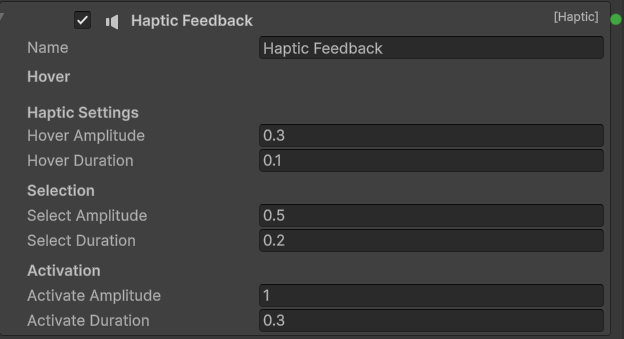
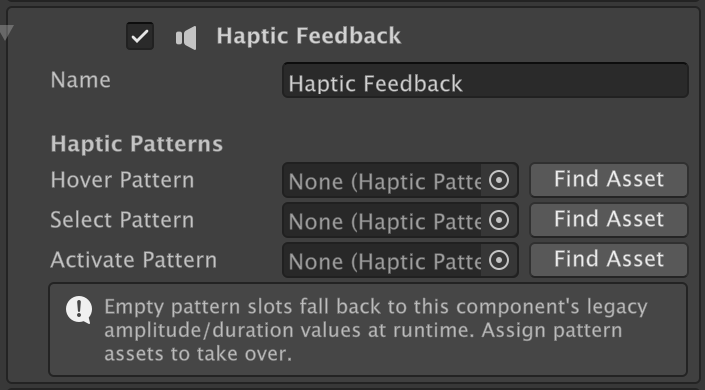
Documentation Update

diff --git a/Documentation~/Core/InteractionZones.md b/Documentation~/Core/InteractionZones.md
@@ -1,0 +1,110 @@
+# Interaction Zones
+
+A Scene view guide that shows where the player can comfortably reach, so you can place interactables without putting on the headset.
+
+> **Menu path:** Component > Shababeek > Interactions > Debug > VR Interaction Zone Visualizer
+> **Lives on:** the Camera Rig (the Camera Rig prefab already has one)
+
+![Room-scale zones in the Scene view](../Images/Core/interaction-zones-room-scale.png)
+
+The zones are drawn only in the editor. They do nothing at runtime and are not included in what the player sees.
+
+---
+
+## Reading the zones
+
+| Colour | Zone | Meaning |
+|---|---|---|
+| Green | **Optimal** | Comfortable reach. Put the things the player uses most here. |
+| Yellow | **Extended Reach** | Reachable with a stretched arm. Fine for occasional use. |
+| Orange | **Maximum Reach** | Reachable only by leaning. Avoid for anything important. |
+| Red | **Dead Zone** | Too close to the head to use comfortably. |
+| Blue | **Play Area** | Where the player can walk (Room Scale only). |
+
+The filled bands on the floor are the footprint of each zone. With **Height Ranges** on, each zone also shows the heights it covers, and a gauge beside the player marks the reachable range and the optimal range in metres above the floor. The green volume is filled so it stands out as the place to put things.
+
+Everything is drawn relative to the rig, so the zones turn with it. Parts hidden behind scene geometry are drawn faintly.
+
+---
+
+## Choosing a mode
+
+Pick **Room Scale** or **Seated** with the two buttons at the top of the component.
+
+- **Room Scale**: the player walks inside the play area. Zones are distances past the edge of the play area.
+- **Seated**: the player stays in one spot. Zones are distances in front of the head, inside an arc.
+
+![Seated zones in the Scene view](../Images/Core/interaction-zones-seated.png)
+
+Each mode keeps its own values. Switching mode never changes a value; it only changes which set is shown and drawn. **Reset … Values** restores the defaults of the mode you are looking at and leaves the other mode alone.
+
+---
+
+## Inspector
+
+![Interaction Zone Visualizer Inspector](../Images/Core/interaction-zones-inspector.png)
+
+### Player
+
+| Field | What it does |
+|---|---|
+| **Player Radius** | Radius of the body drawn at the rig. |
+| **Dead Zone Radius** | Radius around the head that is too close to use. |
+| **Eye Height** | Read only. Taken from **Camera Height** on the Camera Rig. |
+
+### Room Scale
+
+| Field | What it does |
+|---|---|
+| **Width**, **Depth** | Size of the walkable play area. |
+| **Optimal** | How far past the edge is comfortable to reach. |
+| **Extended** | How far past the edge a stretched arm reaches. |
+| **Maximum** | The furthest the player can reach at all. |
+
+### Seated
+
+| Field | What it does |
+|---|---|
+| **Optimal** | Closest and furthest comfortable distance in front of the head. |
+| **Extended** | Distance a stretched arm reaches. |
+| **Maximum** | Distance the player can reach by leaning. |
+| **Arc Half Angle** | How far to each side the zones extend. 180 draws a full circle. |
+
+### Heights
+
+Heights are a percentage of eye height, measured from the head. Negative values are below the head. The line under each slider shows the same range in metres above the floor.
+
+| Field | What it does |
+|---|---|
+| **Reachable** | Lowest and highest height the player can reach. Used by the Extended and Maximum zones. |
+| **Optimal** | Lowest and highest comfortable height. Always stays inside the reachable range. |
+
+Distances are kept in order for you: Extended is never smaller than Optimal, and Maximum is never smaller than Extended.
+
+---
+
+## Showing and hiding parts
+
+The **Scene View** list at the bottom of the component turns each part on or off: the three zones, the play area, the dead zone, the player, the height ranges and the labels. The same switches appear in an **Interaction Zones** panel in the Scene view while the rig, or anything under it, is selected.
+
+These switches are your own editor preference. They are not saved in the scene or the prefab, so hiding a zone does not change the file and does not affect anyone else on the team.
+
+**Show When Not Selected** keeps a faint footprint visible while you work on other objects. Turn it off to see the zones only while the rig is selected.
+
+To hide everything at once, use the Scene view **Gizmos** menu and untick **VR Interaction Zone Visualizer**. If the zones never appear, check that it is ticked there.
+
+---
+
+## Upgrading from 1.1.0
+
+Rigs saved with the previous version convert themselves the first time they load:
+
+- Distances and the play area move into the mode they belonged to.
+- The old layout had one set of heights shared by both modes. They go to the mode that was selected when the rig was saved; the other mode starts from its defaults.
+- The per-zone **Show** tick boxes are no longer stored on the component. Use the Scene View switches instead.
+
+Scripts that read `VRInteractionZoneVisualizer` need updating: the flat properties (`PlayAreaWidth`, `SeatedOptimalMin`, `ShowOptimalZone` and so on) are replaced by `RoomScale` and `Seated` settings objects, `ApplyVRModePreset()` by `ResetToDefaults(mode)`, and `GetPlayerHeight()` by `EyeHeight`.
+
+---
+
+Back to the [documentation index](../README.md).

diff --git a/Documentation~/InteractionsDocumentationSummary.md b/Documentation~/InteractionsDocumentationSummary.md
@@ -44,7 +44,7 @@ Back to the [documentation index](README.md).
 | Component | Note |
 |---|---|
 | HandFingerRig and Auto-Fit Fingers To Surface | Described only in the [design notes](ProceduralGrabPosing-Design.md). Needs a section in the PoseConstrainer manual. |
-| InteractionZoneVisualizer | No manual. |
+| InteractionZoneVisualizer | [Interaction zones](Core/InteractionZones.md). |
 | EyelidEffect | No manual. |
 | KinematicHandFollower | One line in the source; mention in the Interaction Core manual. |
 | GestureSetter, GestureVariable | Older gesture components; decide whether they stay before documenting. |

diff --git a/Documentation~/Interactables/ConstrainedInteractables.md b/Documentation~/Interactables/ConstrainedInteractables.md
@@ -243,7 +243,7 @@ public class DrawerContents : MonoBehaviour
 
 **Slider Interactable** extends the shared linear constrained base (same lineage as **Drawer**) but is tuned for **multiple discrete steps** along one axis. While grabbed, the knob follows the hand; on release it snaps to the nearest step.
 
-<!-- IMAGE TODO: Images/Constrained_Interactables/slider-interactable-inspector.png | Slider Interactable Inspector (placeholder) -->
+![Slider Interactable Inspector](../Images/Constrained_Interactables/slider-interactable-inspector.png)
 
 ## Inspector essentials
 

diff --git a/Documentation~/Interactors/Interactors.md b/Documentation~/Interactors/Interactors.md
@@ -21,7 +21,7 @@
 
 The **Hand** identifies **Left vs Right**, connects to the package **Config**, streams controller/hand-tracked input, and coordinates pose presentation with **PoseConstrainer** / **HandPoseController**. Interactors live on the **same GameObject** as the Hand (or its children), sharing layer and attachment transforms.
 
-<!-- IMAGE TODO: Images/Interactors/hand-inspector-overview.png | Hand component Inspector overview (placeholder) -->
+![Hand component Inspector](../Images/Interactors/hand-inspector-overview.png)
 
 **Inspector checklist**
 

diff --git a/Documentation~/GettingStarted/QuickStart.md b/Documentation~/GettingStarted/QuickStart.md
@@ -192,7 +192,7 @@ When you created your grabbable cube, a PoseConstrainer was automatically added.
 1. Select your Grabbable Cube
 2. Find the **PoseConstrainer** component in the Inspector
 
-<!-- IMAGE TODO: Images/Quick_Start/PoseConstrainer%20Inspector%20with%20labeled%20sections.png | PoseConstrainer Inspector -->
+![PoseConstrainer Inspector](../Images/Quick_Start/PoseConstrainer%20Inspector%20with%20labeled%20sections.png)
 
 #### Configure Constraint Type
 The **Constraint Type** determines how hands behave:

diff --git a/Documentation~/Systems/FeedbackSystem.md b/Documentation~/Systems/FeedbackSystem.md
@@ -50,7 +50,7 @@ The **Feedback System** provides unified feedback management for interactions. I
 
 ## Inspector Reference
 
-<!-- IMAGE TODO: Images/Feedback_System/feedback-inspector-expanded.png | FeedbackSystem — Inspector with multiple feedback entries -->
+![Feedback System Inspector with several feedback entries](../Images/Feedback_System/feedback-inspector-expanded.png)
 
 *Feedback System component expanded with several feedback types configured.*
 
